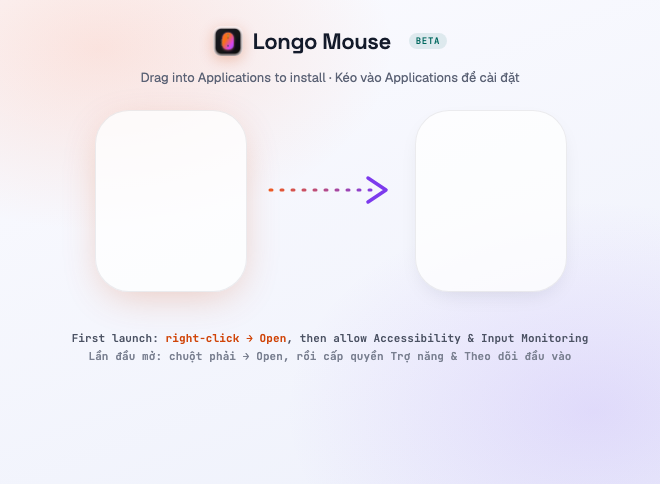
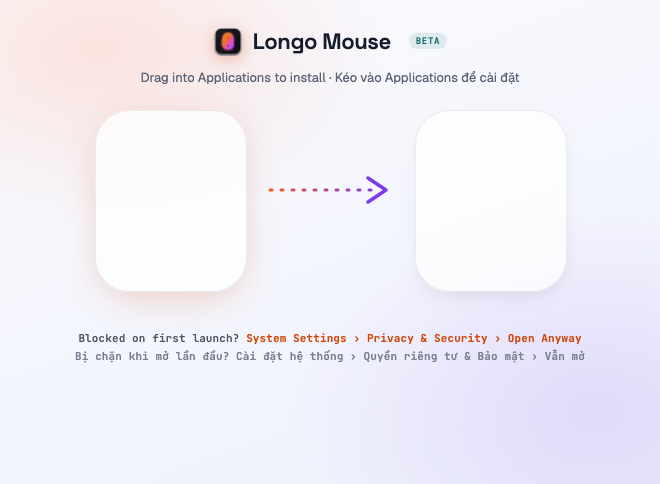
mouse-macos, website: explain "Open Anyway" for the first launch
Right-click → Open no longer bypasses Gatekeeper on macOS 15 and later.
The installer window, the website, and the README now point to System
Settings › Privacy & Security › Open Anyway, with the xattr command as an
alternative.

Changed region(s): [[0.0909, 0.6818, 0.9091, 0.7438]]

diff --git a/apps/mouse-macos/scripts/dmg/background.html b/apps/mouse-macos/scripts/dmg/background.html
@@ -77,8 +77,8 @@
     </svg>
 
     <div class="footer">
-      First launch: <b>right-click → Open</b>, then allow Accessibility &amp; Input Monitoring<br />
-      <span class="vi">Lần đầu mở: chuột phải → Open, rồi cấp quyền Trợ năng &amp; Theo dõi đầu vào</span>
+      Blocked on first launch? <b>System Settings › Privacy &amp; Security › Open Anyway</b><br />
+      <span class="vi">Bị chặn khi mở lần đầu? Cài đặt hệ thống › Quyền riêng tư &amp; Bảo mật › Vẫn mở</span>
     </div>
   </body>
 </html>

diff --git a/apps/mouse-macos/README.md b/apps/mouse-macos/README.md
@@ -23,6 +23,9 @@ Accessibility and Input Monitoring permissions across rebuilds.
 
 On first launch, grant **Accessibility** and **Input Monitoring** in System Settings › Privacy & Security.
 
+Downloaded builds aren't notarized by Apple yet, so macOS blocks the first launch. Open System Settings › Privacy &
+Security and click **Open Anyway** (once), or run `xattr -dr com.apple.quarantine "/Applications/Longo Mouse.app"`.
+
 ## Layout
 
 - `Sources/LongoMouse/`: the app (SwiftUI + AppKit). `MouseEngine` holds the event tap and gesture logic, and `AppModel` holds the settings.
